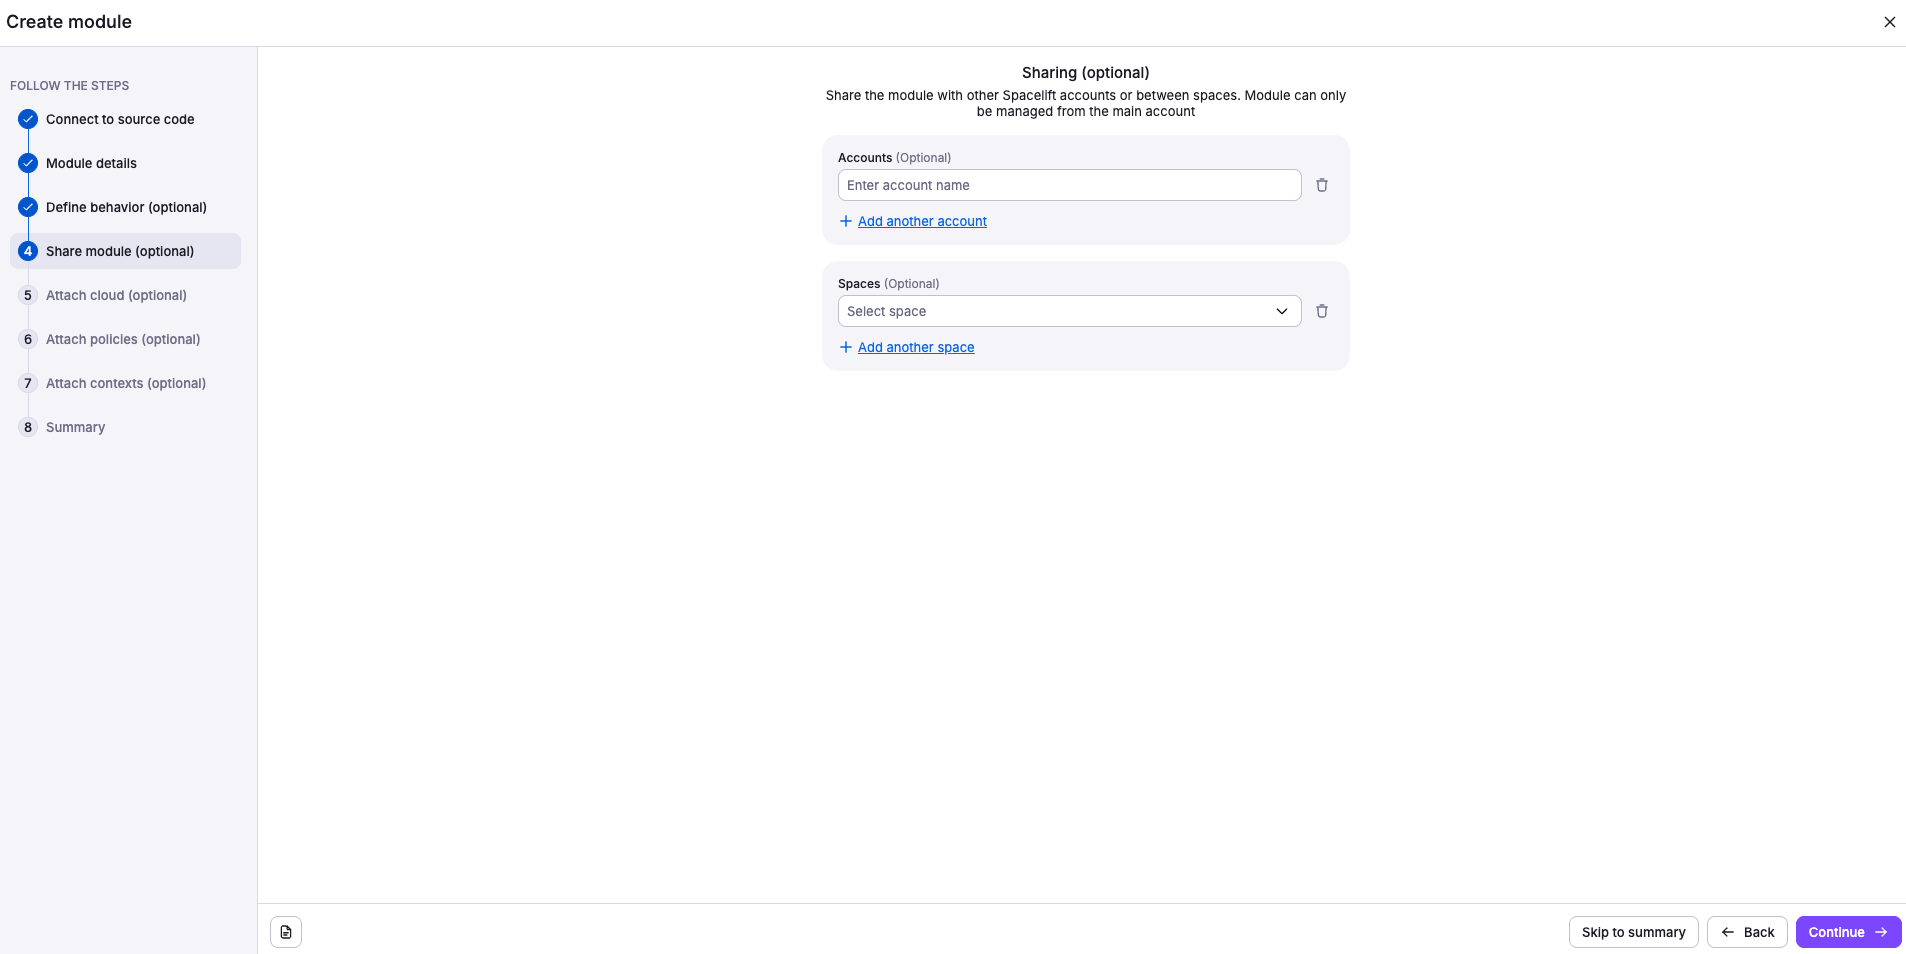
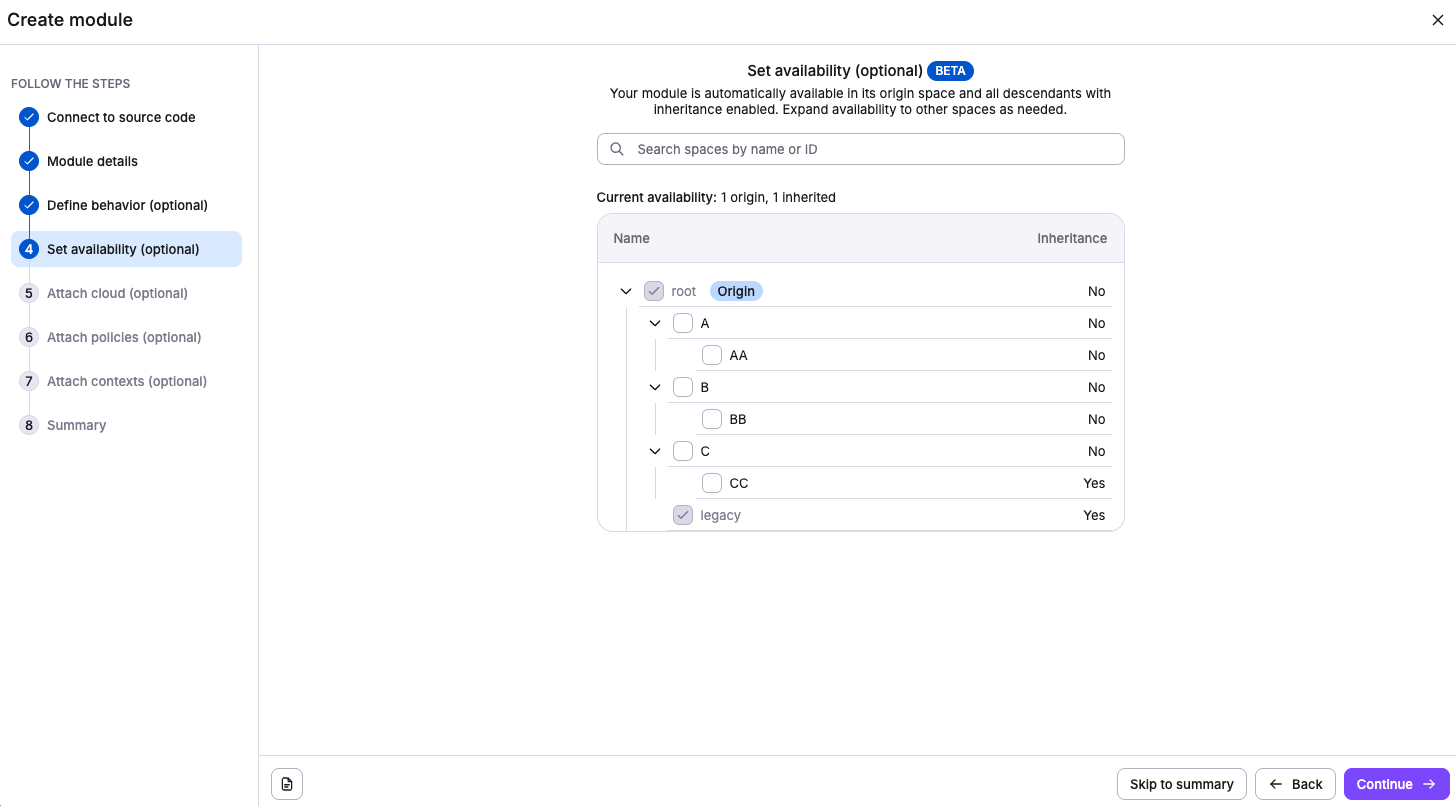
docs: clarify module availability docs (#1033)
This is an attempt to clear out any confusion between space availability
and the legacy old cross account sharing mechanism.

diff --git a/docs/vendors/terraform/module-registry.md b/docs/vendors/terraform/module-registry.md
@@ -87,13 +87,13 @@ The setup steps are pretty similar to the ones for [stacks](../../concepts/stack
 
 #### Connect to source code
 
-![](../../assets/screenshots/terraform/modules/new_module_source_code.png)
+![](../../assets/screenshots/terraform/modules/new_module_source_code.png){ .on-glb }
 
 First, point Spacelift at the right repo and choose the "[tracked](../../concepts/stack/stack-settings.md#vcs-integration-and-repository)" branch - note that repositories whose names don't follow the convention are filtered out:
 
 #### Add details
 
-![](<../../assets/screenshots/terraform/modules/new_module_details.png>)
+![](<../../assets/screenshots/terraform/modules/new_module_details.png>){ .on-glb }
 
 In the details section, you will be able to add a **name**, **provider**, [labels](../../concepts/stack/stack-settings.md#labels) and [description](../../concepts/stack/stack-settings.md#name-and-description).
 
@@ -101,23 +101,23 @@ The name and provider will be inferred from your repository name if it follows t
 
 #### Module Created
 
-![](<../../assets/screenshots/terraform/modules/new_module_intermediate.png>)
+![](<../../assets/screenshots/terraform/modules/new_module_intermediate.png>){ .on-glb }
 
  After finishing adding details to your module, you're brought to a new screen indicating that your module has been successfully created. This screen serves as a branching point where you can enhance the functionality of your module through various integrations and customizations.
 
 You have the flexibility to either take shortcuts to specific configurations or continue through the standard process of setting up your module.
 
-#### Share module
+#### Define module availability
 
-![](<../../assets/screenshots/terraform/modules/new_module_share.png>)
+![](<../../assets/screenshots/terraform/modules/new_module_share.png>){ .on-glb }
 
-In this step, you can share your module with specific spaces in your account. Select the spaces that should have access to use this module in their stacks.
+In this step, you can make your module available to specific spaces in your account. Select the spaces that should have access to use this module in their stacks.
 
-Shared modules become discoverable and usable by stacks in the selected spaces, while module management remains with the owner. Learn more about [module sharing](#sharing-modules).
+Modules become discoverable and usable by stacks in the selected spaces, while module management remains with the owner. Learn more about [module availability](#module-availability).
 
 #### Define behavior
 
-![](<../../assets/screenshots/terraform/modules/new_module_behavior.png>)
+![](<../../assets/screenshots/terraform/modules/new_module_behavior.png>){ .on-glb }
 
 In the behavior section there are few settings that you can set to make your module work in a specific way:
 
@@ -130,7 +130,7 @@ In the behavior section there are few settings that you can set to make your mod
 
 #### Attach Module Cloud Integration
 
-![](<../../assets/screenshots/terraform/modules/new_module_cloud.png>)
+![](<../../assets/screenshots/terraform/modules/new_module_cloud.png>){ .on-glb }
 
 Here you have the ability to attach any Cloud Integrations you have configured.
 
@@ -146,7 +146,7 @@ You can read more about Cloud integrations [here](../../integrations/cloud-provi
 
 #### Attach Module Policies
 
-![](<../../assets/screenshots/terraform/modules/new_module_policies.png>)
+![](<../../assets/screenshots/terraform/modules/new_module_policies.png>){ .on-glb }
 
 Spacelift as a development platform is built around the concept of policies and allows defining policies that involve various decision points in the application.
 
@@ -163,7 +163,7 @@ You can read more about policies [here](../../concepts/policy/README.md).
 
 #### Attach Module Contexts
 
-![](<../../assets/screenshots/terraform/modules/new_module_contexts.png>)
+![](<../../assets/screenshots/terraform/modules/new_module_contexts.png>){ .on-glb }
 
 Contexts are sets of environment variables and related configuration including hooks that can be shared across multiple modules. By attaching a context, you ensure your module has all the necessary configuration elements it needs to operate, without repeating the setup for each module.
 
@@ -173,7 +173,7 @@ You can read more about contexts [here](../../concepts/configuration/context.md)
 
 #### Summary
 
-![](<../../assets/screenshots/terraform/modules/new_module_summary.png>)
+![](<../../assets/screenshots/terraform/modules/new_module_summary.png>){ .on-glb }
 
  On the summary section, you can now review your settings before finalizing the creation of your module. This modular approach ensures your module gets set up with all the necessary components.
 
@@ -281,7 +281,7 @@ Note that in order to refer to a test case, you need to set a unique `id` to it.
 
 Whenever tests succeed on a [tracked change](../../concepts/run/README.md#where-do-runs-come-from), a new **Version** is created based on the `module_version` in the configuration. Important thing to note is that Spacelift will not let you reuse the number of a successful version, and will require you to strictly follow semantic versioning - ie. you can't go to from `0.2.0` to `0.4.0`, skipping `0.3.0` entirely.
 
-![](../../assets/screenshots/Versions_-_terraform_spacelift_example.png)
+![](../../assets/screenshots/Versions_-_terraform_spacelift_example.png){ .on-glb }
 
 Two proposed git flow are as follows:
 
@@ -327,7 +327,7 @@ You can mark a version as bad using the dropdown menu on the right side of the v
 
 You'll be able to see in the version details that the version has been **marked as bad** and the description.
 
-![](../../assets/screenshots/Version_mark_as_bad_2.png)
+![](../../assets/screenshots/Version_mark_as_bad_2.png){ .on-glb }
 
 ## Modules in practice
 
@@ -336,17 +336,17 @@ In order to use modules, you have to source them from the Spacelift module regis
 ![](<../../assets/screenshots/image (1).png>)
 
 !!! info
-    Stacks that use private modules need access to the Space the modules reside in, which can be achieved via [space inheritance](../../concepts/spaces/access-control.md#inheritance) or module [space sharing](#space-sharing).
+    Stacks that use private modules need access to the Space the modules reside in, which can be achieved via [space inheritance](../../concepts/spaces/access-control.md#inheritance) or module [space availability](#space-availability).
 
-### Sharing modules
+### Module availability
 
-#### Space sharing
+#### Space availability
 
-Modules can be shared with specific spaces within your account, giving you fine-grained control over which teams can discover and use your modules. When you share a module with a space, any stack in that space can reference it in their Terraform configurations.
+Modules can be made available to specific spaces within your account, giving you fine-grained control over which teams can discover and use your modules. When you make a module available to a space, any stack in that space can reference it in their Terraform configurations.
 
-When you share a module with a space, all child spaces with [inheritance enabled](../../concepts/spaces/access-control.md#inheritance) will also be able to access the module.
+When you make a module available to a space, all child spaces with [inheritance enabled](../../concepts/spaces/access-control.md#inheritance) will also be able to access the module.
 
-To share a module with other spaces, select the target spaces in the sharing section under **Module settings > Availability**
+To make a module available to other spaces, select the target spaces in the availability section under **Module settings > Availability**
 
 ![](../../assets/screenshots/terraform/modules/module_sharing.png)
 
@@ -361,7 +361,7 @@ resource "spacelift_space" "backend_team" {
   name = "backend-team"
 }
 
-# Platform module owned by root space, shared with application teams
+# Platform module owned by root space, made available to application teams
 resource "spacelift_module" "common_networking" {
   name       = "networking"
   branch     = "main"
@@ -374,58 +374,60 @@ resource "spacelift_module" "common_networking" {
 }
 ```
 
-The `space_shares` attribute accepts a list of space IDs. Changes to this list will update sharing permissions, allowing you to manage module access as code.
+The `space_shares` attribute accepts a list of space IDs. Changes to this list will update module availability, allowing you to manage module access as code.
 
 ##### Permissions
 
-To be able to share a module with a space, you need the following permissions:
+To be able to make a module available to a space, you need the following permissions:
 
-- Admin access on the space where the module belongs.
-- Write access OR the `SPACE_SHARE_MODULE` action to the target space.
+- **Admin** access on the space where the module belongs.
+- **Write** access OR the `SPACE_SHARE_MODULE` action to the target space.
 
 You may also want to assign read access to the target space, otherwise the space will not appear in the space selector in Spacelift UI.
 You can create a custom role called `module share` like below that you can reuse:
 
 ![](../../assets/screenshots/terraform/modules/module_share_role.png)
 
-##### Using shared modules
+##### Using available modules
 
-When a module is shared with a space you have access to, you can:
+When a module is made available to a space you have access to, you can:
 
 - Discover it in the module list and search results.
 - Reference it in your stack configurations.
 
-Module management remains with the owner. You cannot see module details, modify settings, create versions, or change sharing configuration for modules shared with you.
+Module management remains with the owner. You cannot see module details, modify settings, create versions, or change availability configuration for modules exposed to you.
 
-##### Finding shared modules
+##### Finding available modules
 
-The module list includes both modules you own and modules shared with you.
+The module list includes both modules you own and modules that have been made available to you.
 
-![](../../assets/screenshots/terraform/modules/module_list.png)
+![](../../assets/screenshots/terraform/modules/module_list.png){ .on-glb }
 
-Modules shared with you are greyed out because the only thing you can do with them is consume them from your stacks.
+Modules made available to you are greyed out because the only thing you can do with them is consume them from your stacks.
 
-You can use the **availability filter** to filter by specific spaces to see what's shared where.
+You can use the **availability filter** to filter by specific spaces to see what's available and where.
 
 ![](../../assets/screenshots/terraform/modules/module_list_availability_filter.png)
 
-This helps module owners understand their sharing configuration and helps consumers find the modules they can use.
+This helps module owners see which spaces can access their modules, and helps consumers find the modules they can use.
 
-##### When to use space-level sharing
+##### When to use space availability
 
-Space-level sharing is the recommended approach for most organizations. Use it when:
+Space availability is the recommended approach for most organizations. Use it when:
 
 - Different teams within your account need access to different module sets.
 - You want centralized governance over who can use which modules.
 
-For example, your platform team might maintain networking and security modules in a dedicated space, then share them selectively with specific application team spaces.
+For example, your platform team might maintain networking and security modules in a dedicated space, then make them available selectively to specific application team spaces.
 
 #### Cross-account sharing
 
 !!! warning "Migrating from cross-account sharing"
     If you're currently sharing modules between accounts, consider consolidating into a single account with space-based organization. This provides better visibility, simpler access control, and improved governance.
 
-Cross-account sharing is supported for backwards compatibility and specific multi-account scenarios, but space-level sharing is recommended for new implementations.
+    **Cross account sharing might be deprecated in the future**
+
+Cross-account sharing is supported for backwards compatibility and specific multi-account scenarios, but space availability is recommended for new implementations.
 
 Consider cross-account sharing only if you manage completely separate Spacelift accounts that need to share modules.
 
